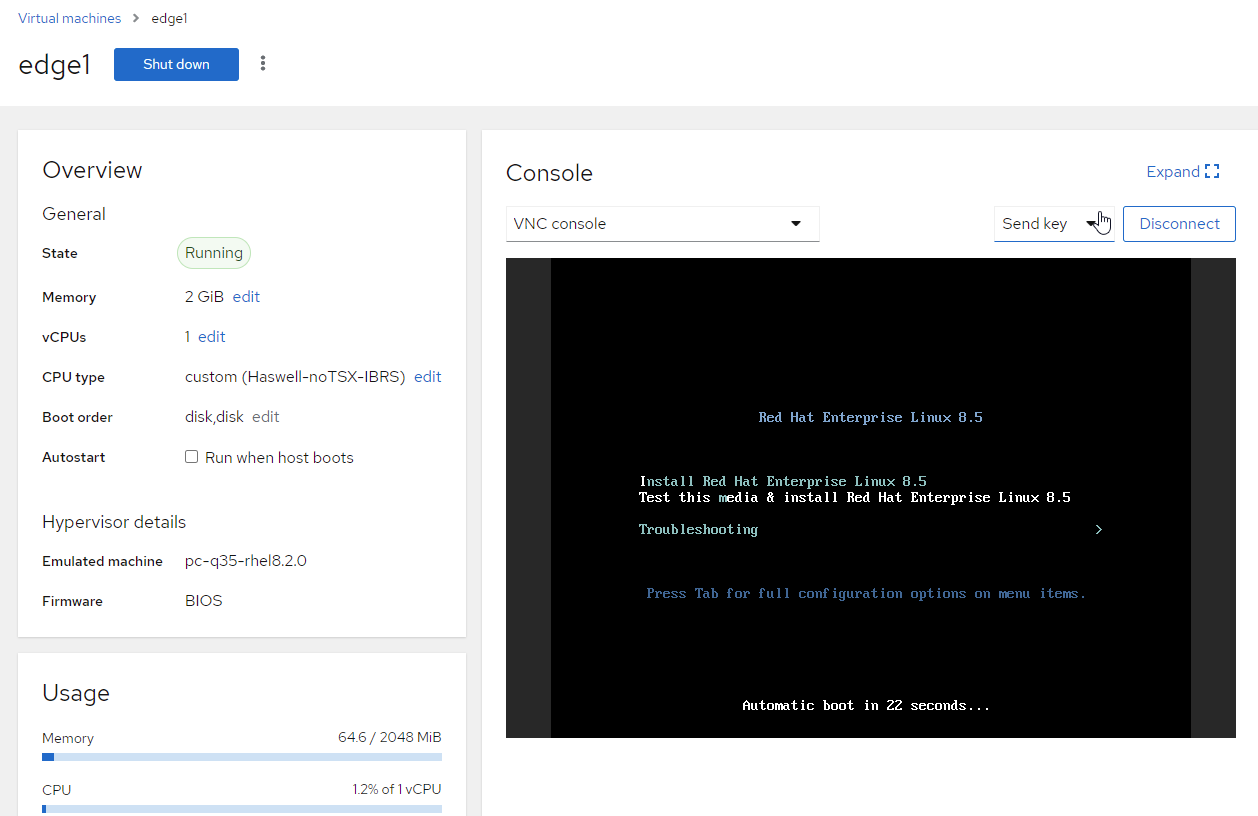
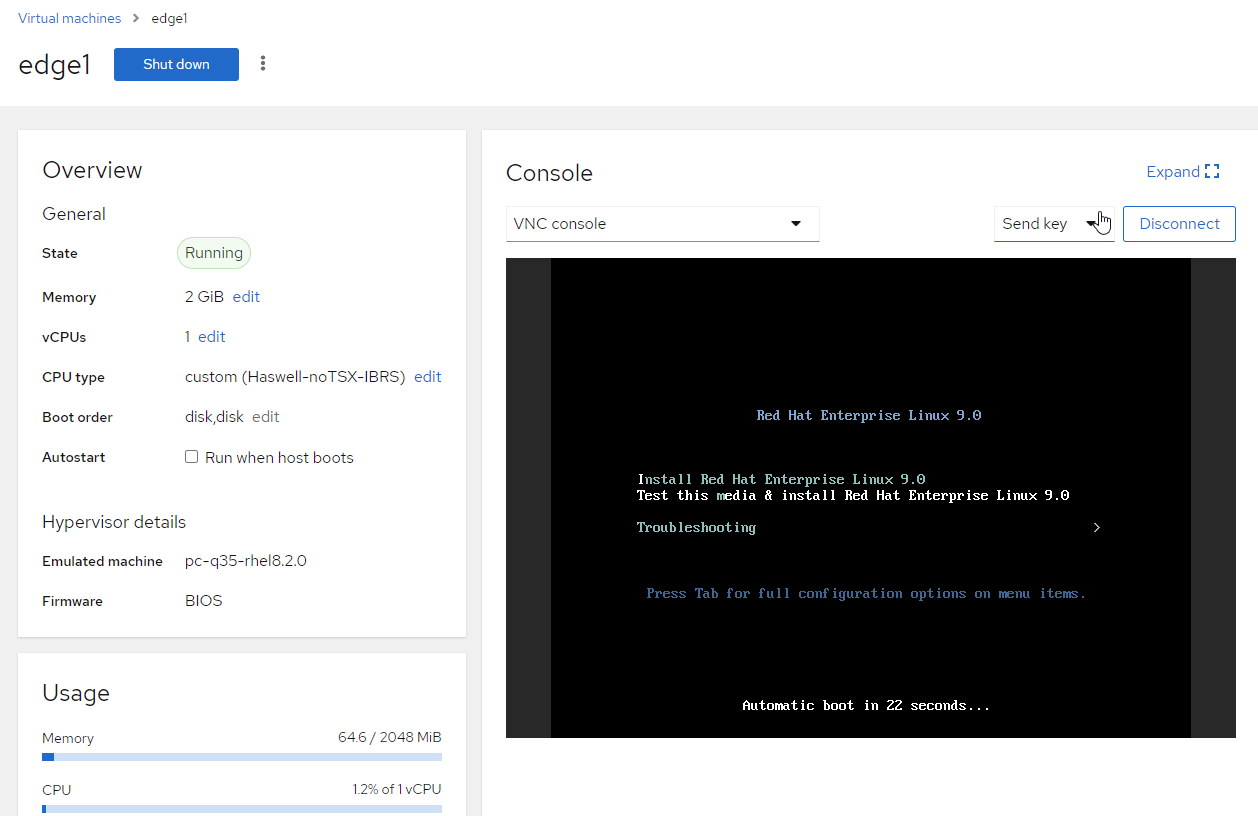
changed to rhel9

Changed region(s): [[0.496, 0.5821, 0.837, 0.6127], [0.589, 0.4902, 0.775, 0.5208], [0.496, 0.6434, 0.62, 0.674]]

diff --git a/edge-management/02-blueprint/assignment.md b/edge-management/02-blueprint/assignment.md
@@ -33,11 +33,11 @@ Click `Create new image`.
 
 ![details](../assets/imagedetails.png)
 
-1) Ensure the Red Hat Enterprise Linux (RHEL) 8.5 is selected.
+1) Ensure the Red Hat Enterprise Linux (RHEL) 9 is selected.
 2) Make sure RHEL for Edge Installer (.iso) is checked.
 3) Click `Next`.
 
-![options](../assets/imageoptions.png)
+![options](../assets/rhel9image.png)
 
 Use the following credentials for logging into the edge device.
 
@@ -69,7 +69,7 @@ Click `Next`.
 
 Click `Create image`.
 
-![createimagefinal](../assets/createimagefinal.png)
+![createimagefinal](../assets/createimage2.png)
 
 The image creation process will take about 15 minutes to complete. Refresh this page to update the status.
 
